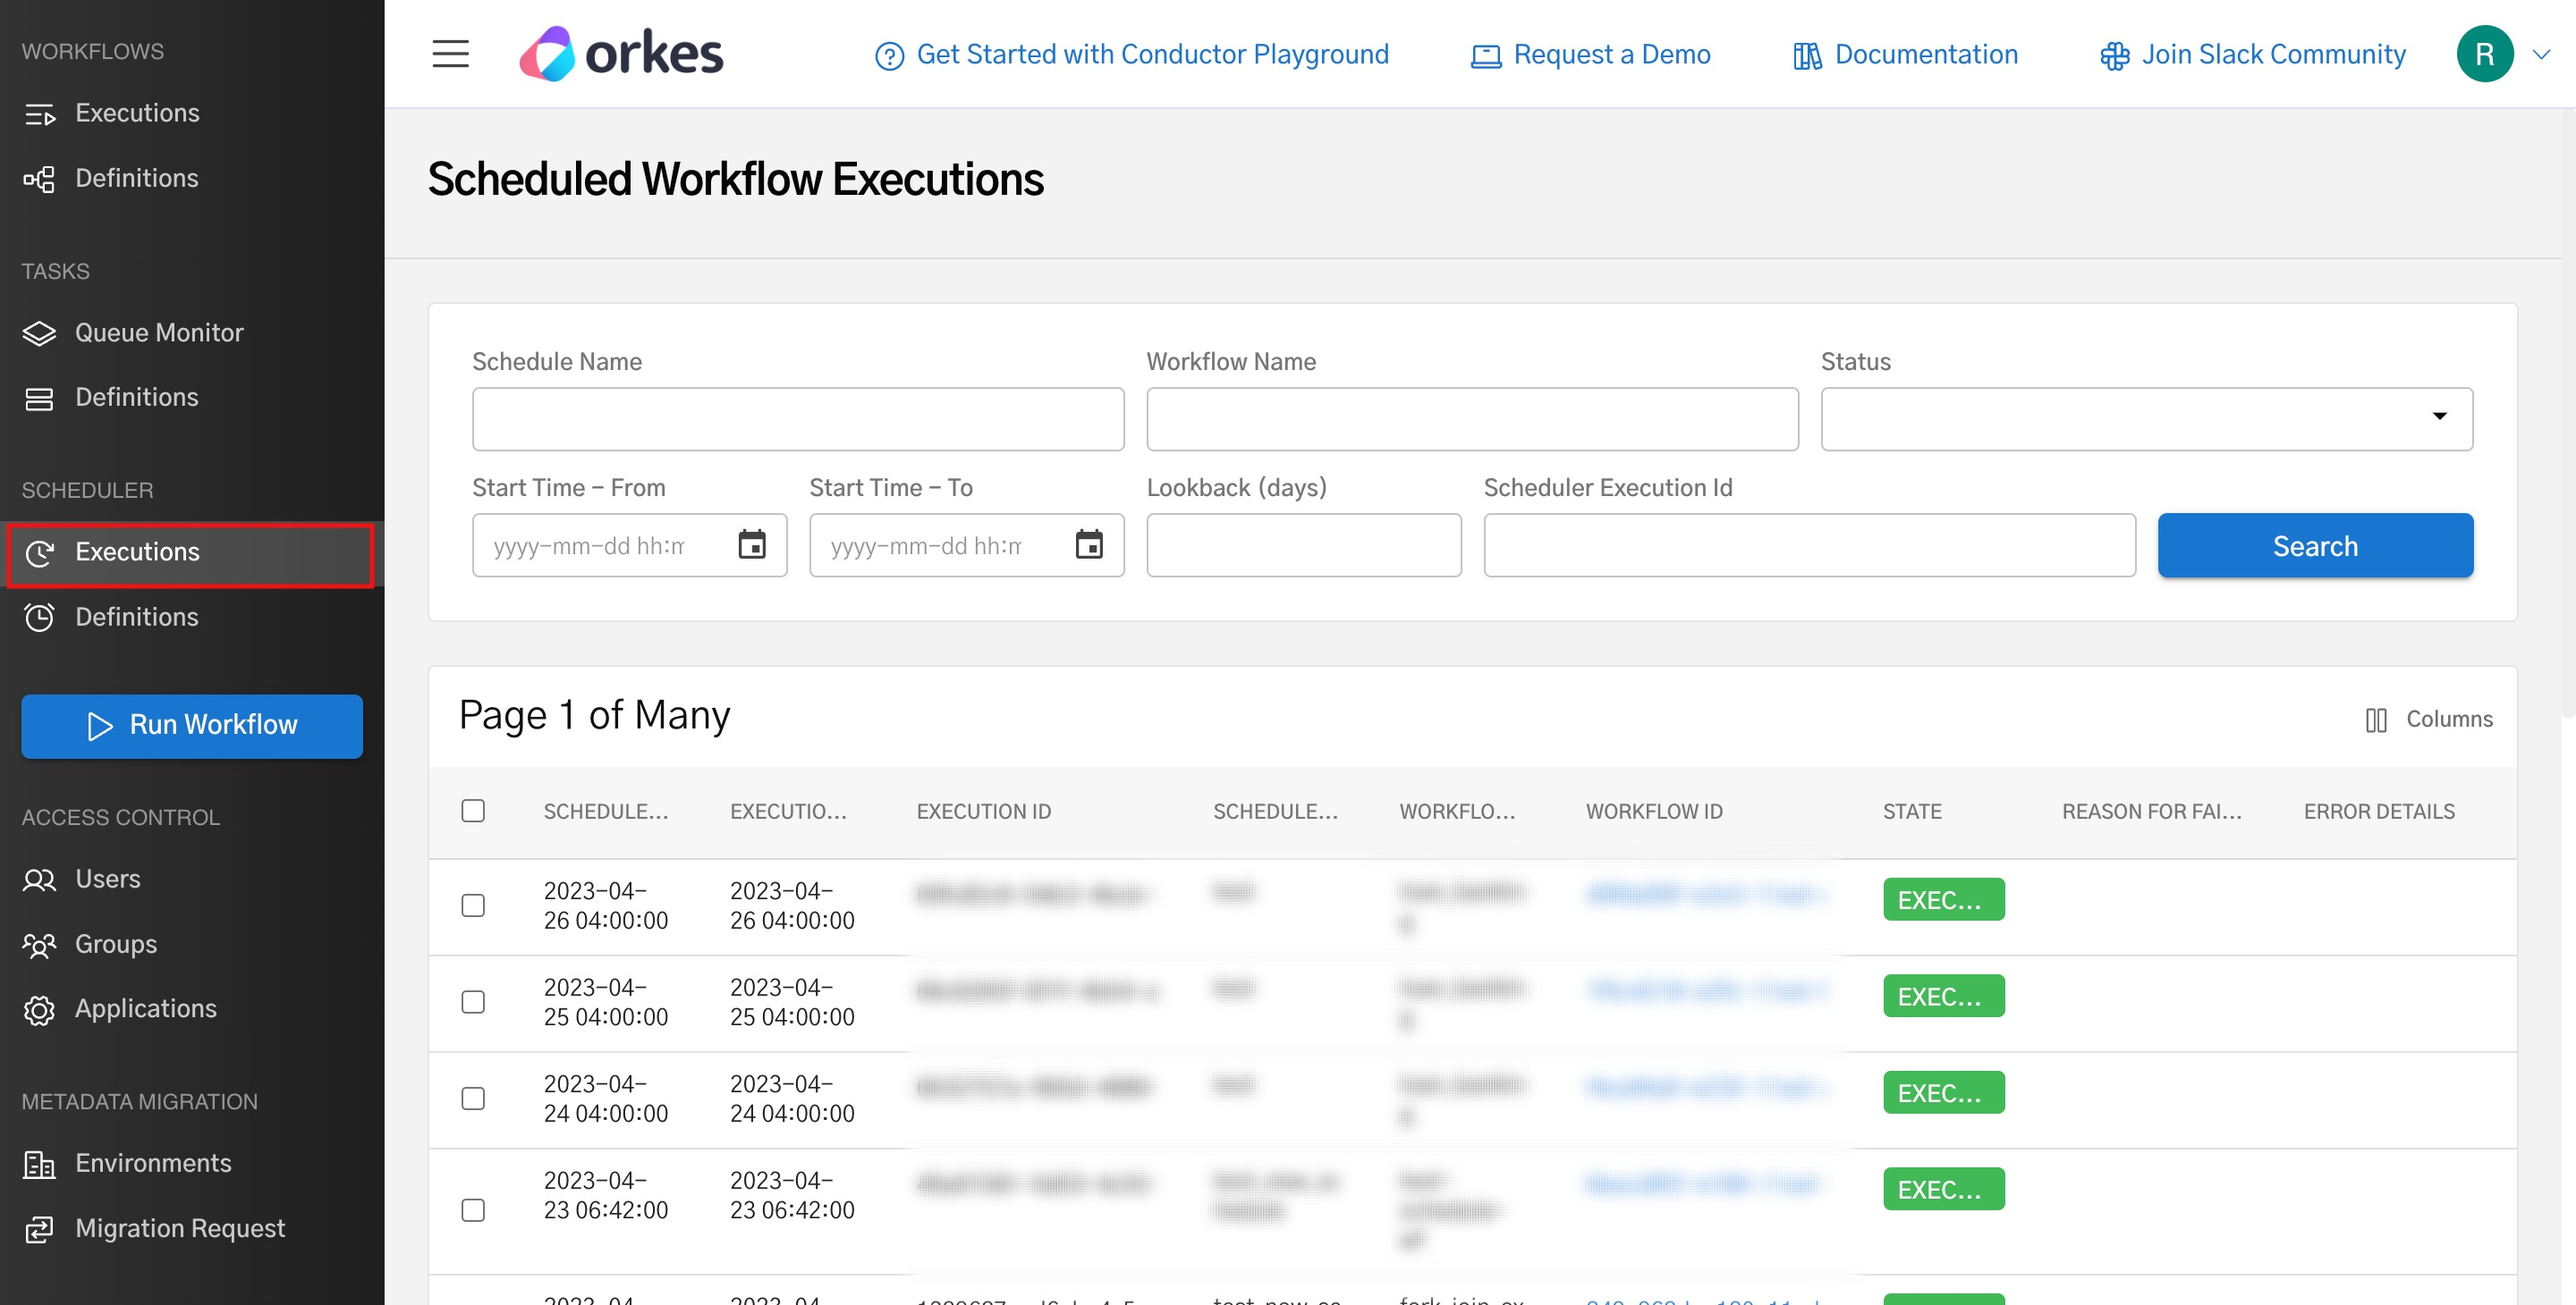
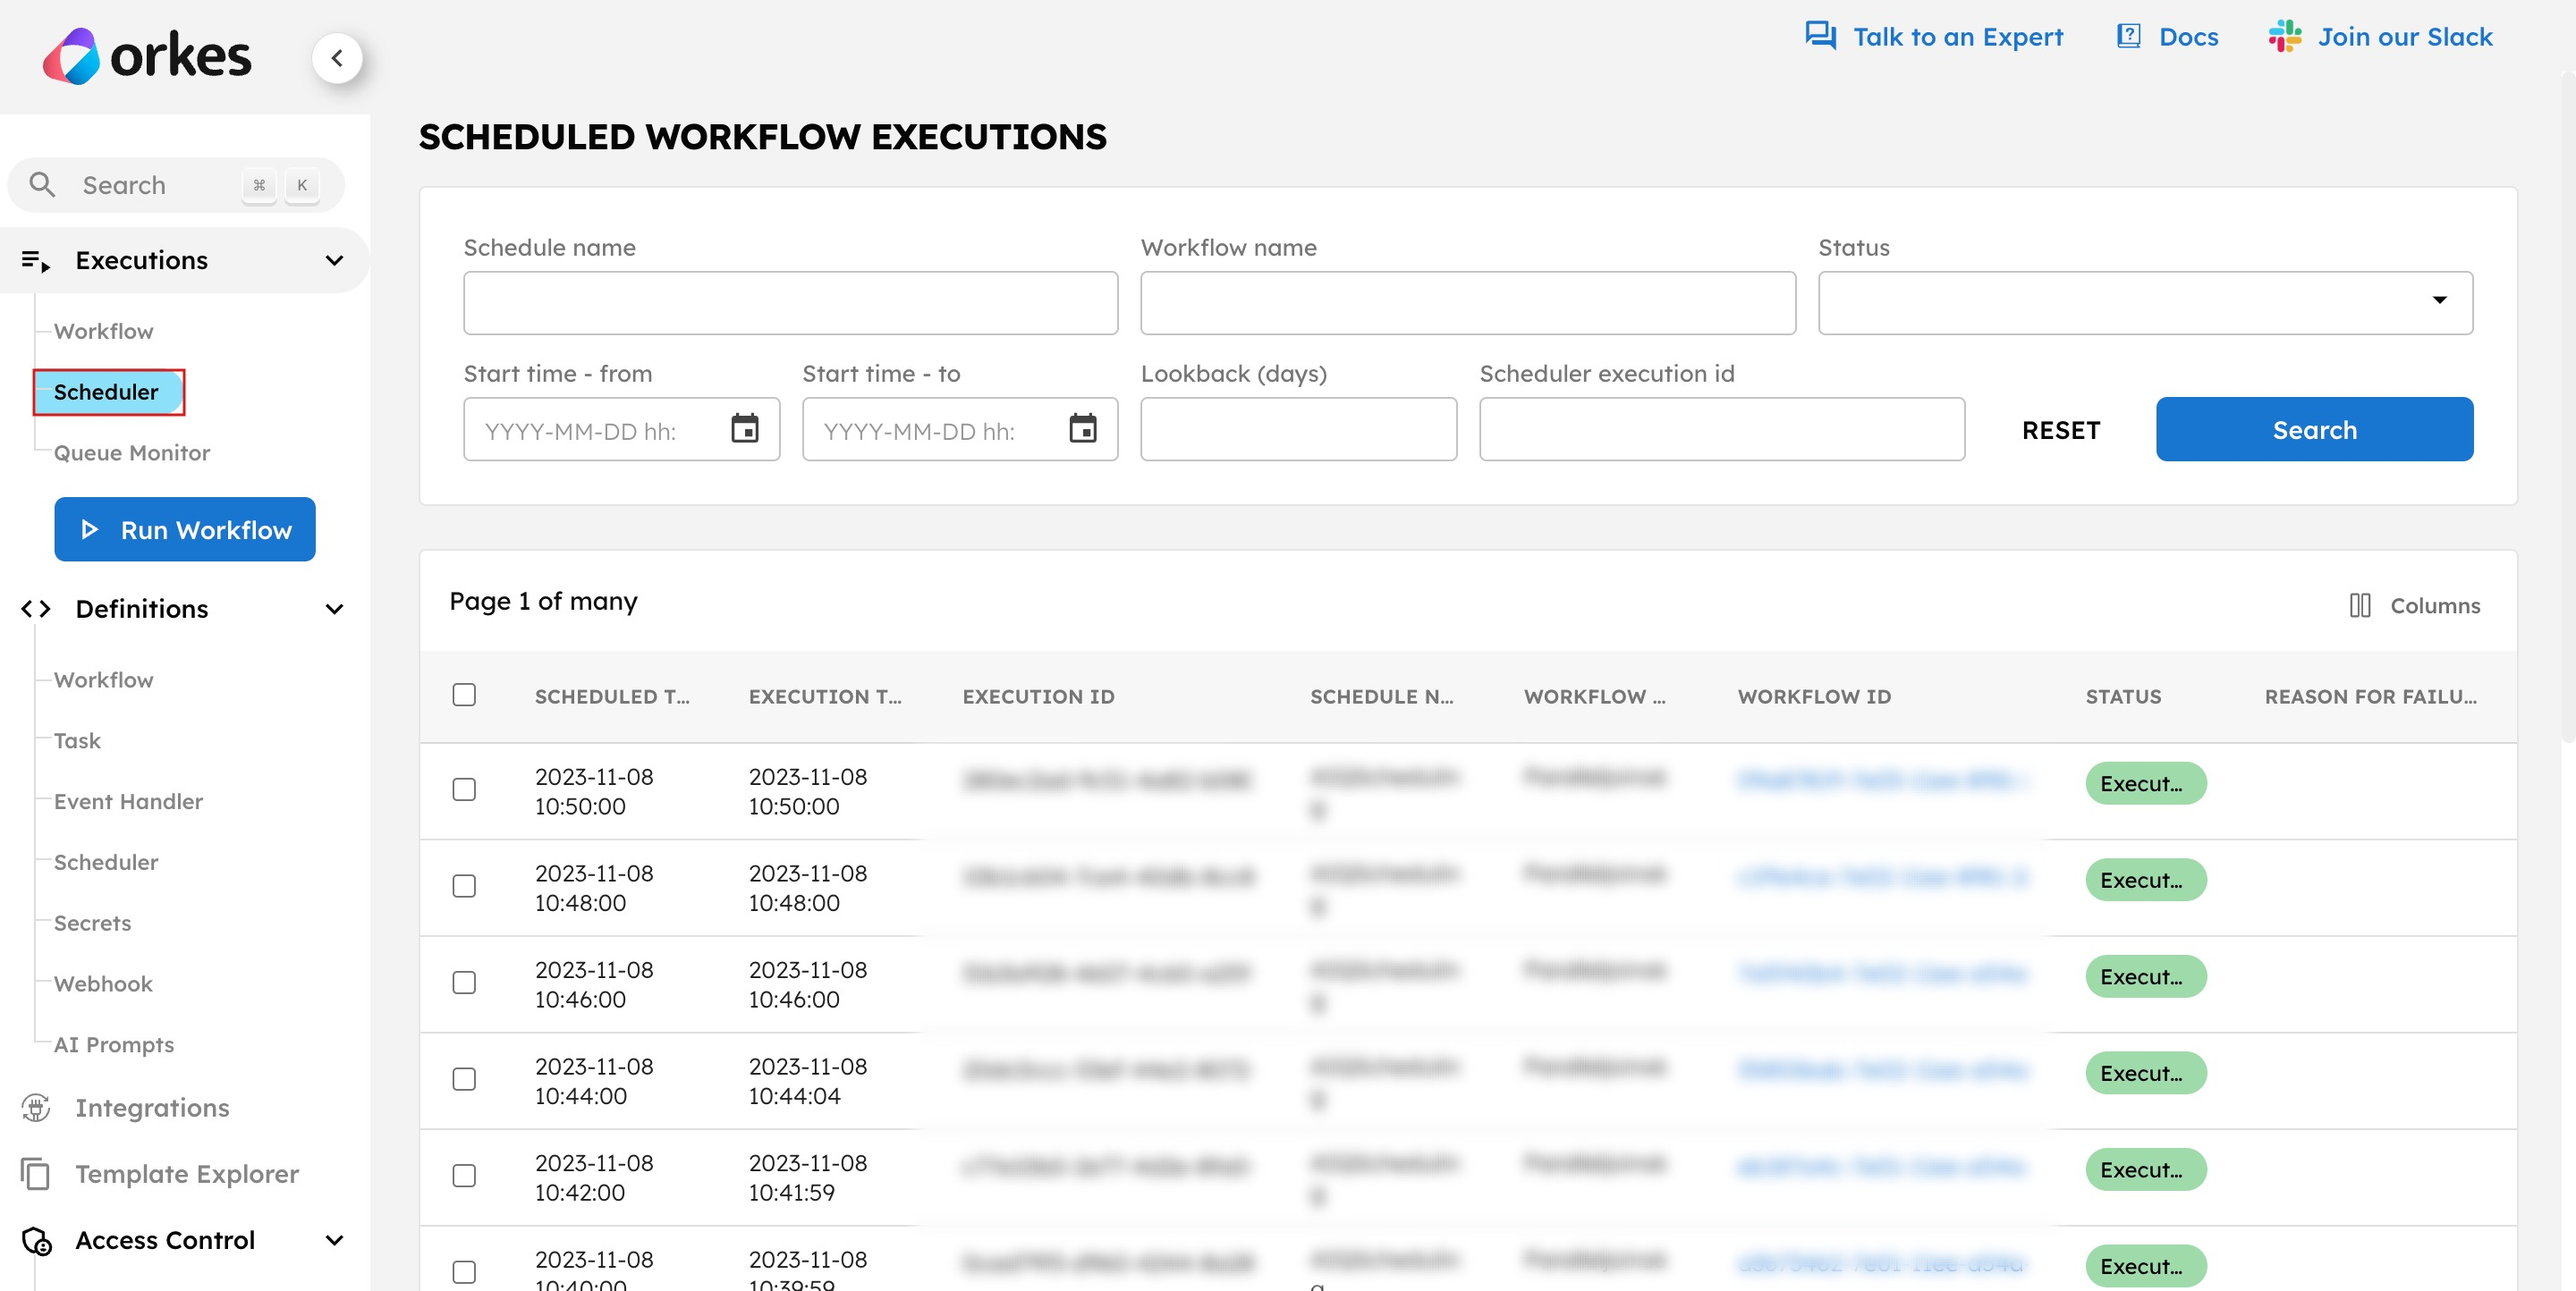
workflow scheduler

diff --git a/docs/developer-guides/scheduling-workflows.md b/docs/developer-guides/scheduling-workflows.md
@@ -25,23 +25,23 @@ Examples could be:
 
 For creating a schedule,
 
-1. From your Conductor server, navigate to **SCHEDULER** > **Definitions**. This page displays a list of all the defined schedules.
+1. From your Conductor server, navigate to **Definitions > Scheduler**. This page displays a list of all the defined schedules.
 2. Click the **Define Schedule** button in the top right corner.
 
 The following parameters can be used to configure the schedule:
 
 | Attribute | Description |
 | ------------------------------------- | ------------------------------------ | 
-| Schedule Name | Unique name for the schedule. Ensure that the schedule name contains no spaces or special characters. |
+| Name | Unique name for the schedule. Ensure that the schedule name contains no spaces or special characters. |
 | Cron Expression | The cron expression is the schedule that the workflow will run on. You can either input the cron expression or choose from the available templates. See the section [Cron Expression](/content/developer-guides/scheduling-workflows#cron-expression) below for detailed information regarding this. |
-| Workflow Name | Name of the workflow to be run. The author of the scheduler should have execution permission for the workflow.|
-| Workflow Version | Selected Workflow may have different versions. Choose the version to be used in this schedule. If left blank, the latest version would be run. |    
-| Input Parameters | Provide fixed input values for the workflow as a JSON object. This field is optional. |
-| Correlation Id | User-supplied ID to correlate or search the scheduled workflows. |
-| Schedule Start | Choose the date & time for the scheduler to start running. It should be in the format **yyyy-mm-dd hh:mm (a/p)m**. This field is optional. |
-| Schedule End | Choose the date & time for the scheduler to stop running. It should be in the format **yyyy-mm-dd hh:mm (a/p)m**. This field is optional. |
-| Task to Domain Mapping | You can use the task to domain mapping to limit the workflow execution to specific domains. This field is optional. |
-| Start Schedule Paused? | If selected, the schedule will be paused (so it will not run) upon creation. It is helpful when you don’t want to run the workflow scheduler, such as during maintenance. To resume the scheduled executions, this needs to be unpaused. |
+| Workflow name | Name of the workflow to be run. The author of the scheduler should have execution permission for the workflow.|
+| Workflow version | Selected Workflow may have different versions. Choose the version to be used in this schedule. If left blank, the latest version would be run. |    
+| Input params | Provide fixed input values for the workflow as a JSON object. This field is optional. |
+| Correlation id | User-supplied ID to correlate or search the scheduled workflows. |
+| Schedule start | Choose the date & time for the scheduler to start running. It should be in the format **yyyy-mm-dd hh:mm (a/p)m**. This field is optional. |
+| Schedule end | Choose the date & time for the scheduler to stop running. It should be in the format **yyyy-mm-dd hh:mm (a/p)m**. This field is optional. |
+| Task to domain mapping | You can use the task to domain mapping to limit the workflow execution to specific domains. This field is optional. |
+| Start schedule paused? | If selected, the schedule will be paused (so it will not run) upon creation. It is helpful when you don’t want to run the workflow scheduler, such as during maintenance. To resume the scheduled executions, this needs to be unpaused. |
 
 3. Click **Save Schedule**.
 
@@ -105,7 +105,7 @@ Macros are also supported when setting a schedule.
 
 ## Viewing Executions
 
-Once the schedulers are defined, you can view the executions from the **Scheduler > Executions** page. 
+Once the schedulers are defined, you can view the executions from the **Executions > Scheduler** page. 
 
 <p align="center"><img src="/content/img/scheduler-executions.jpg" alt="Scheduler Executions View" width="100%" height="auto"></img></p>
 
